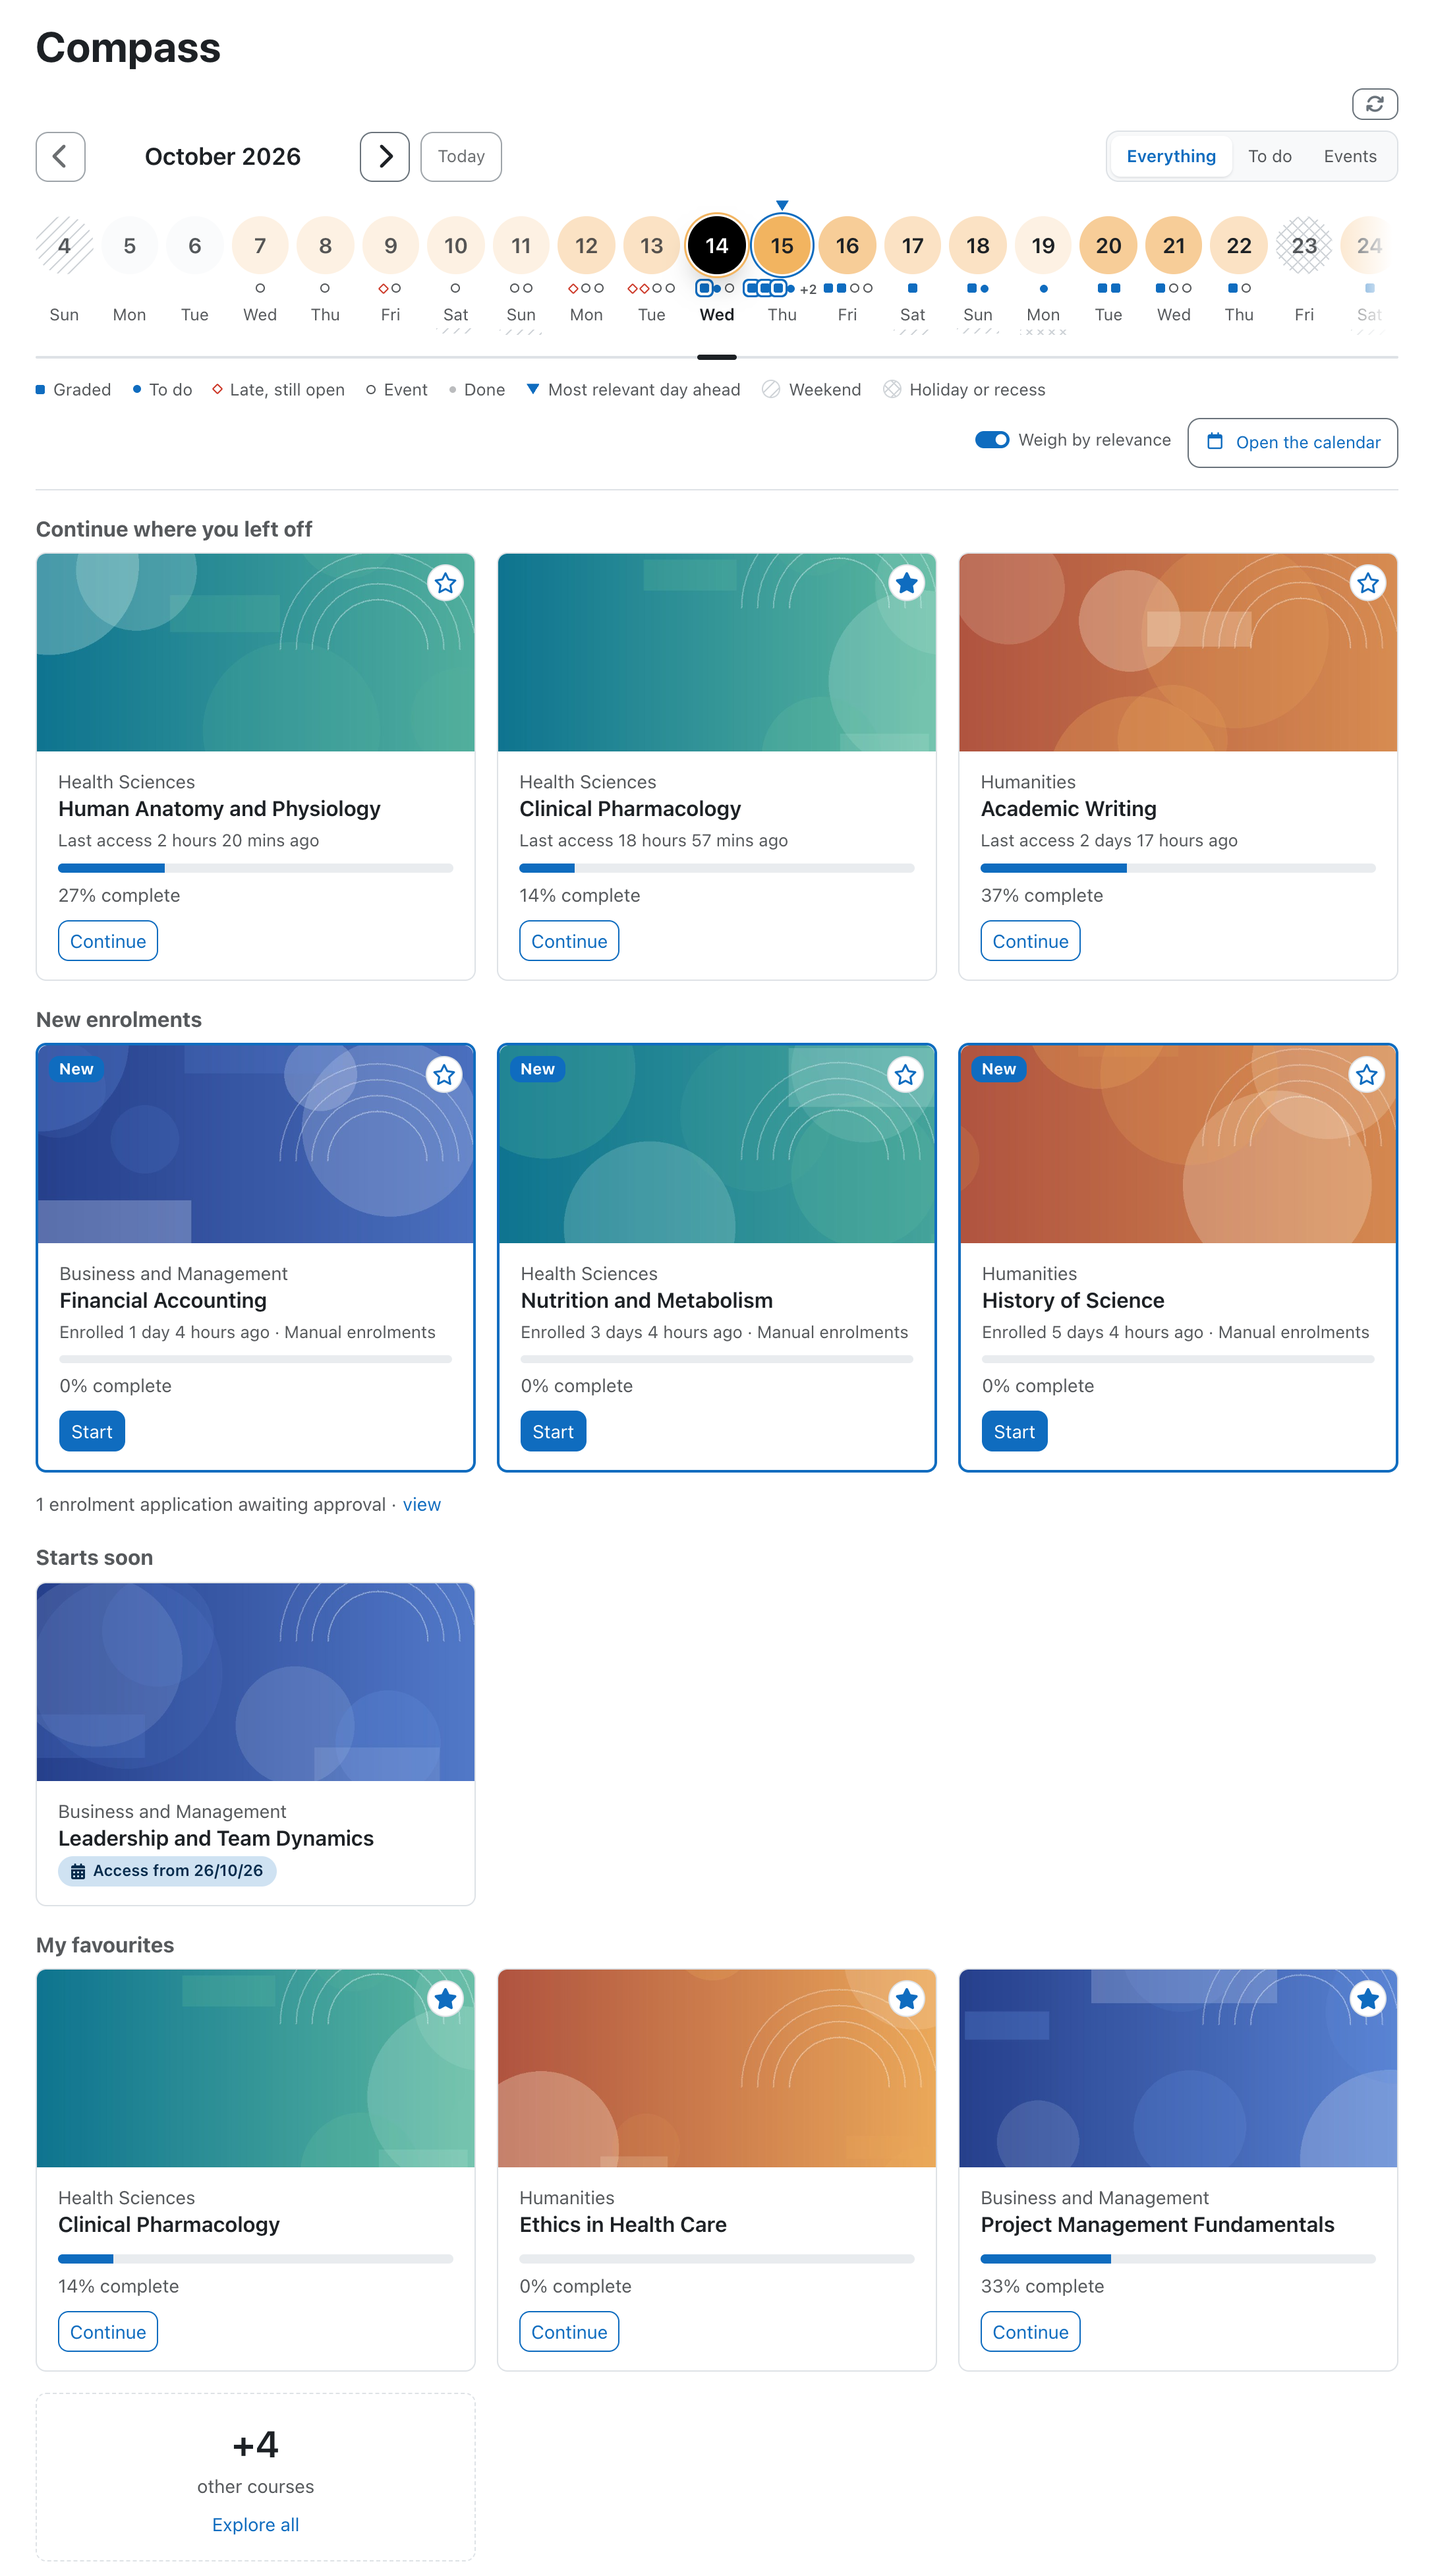
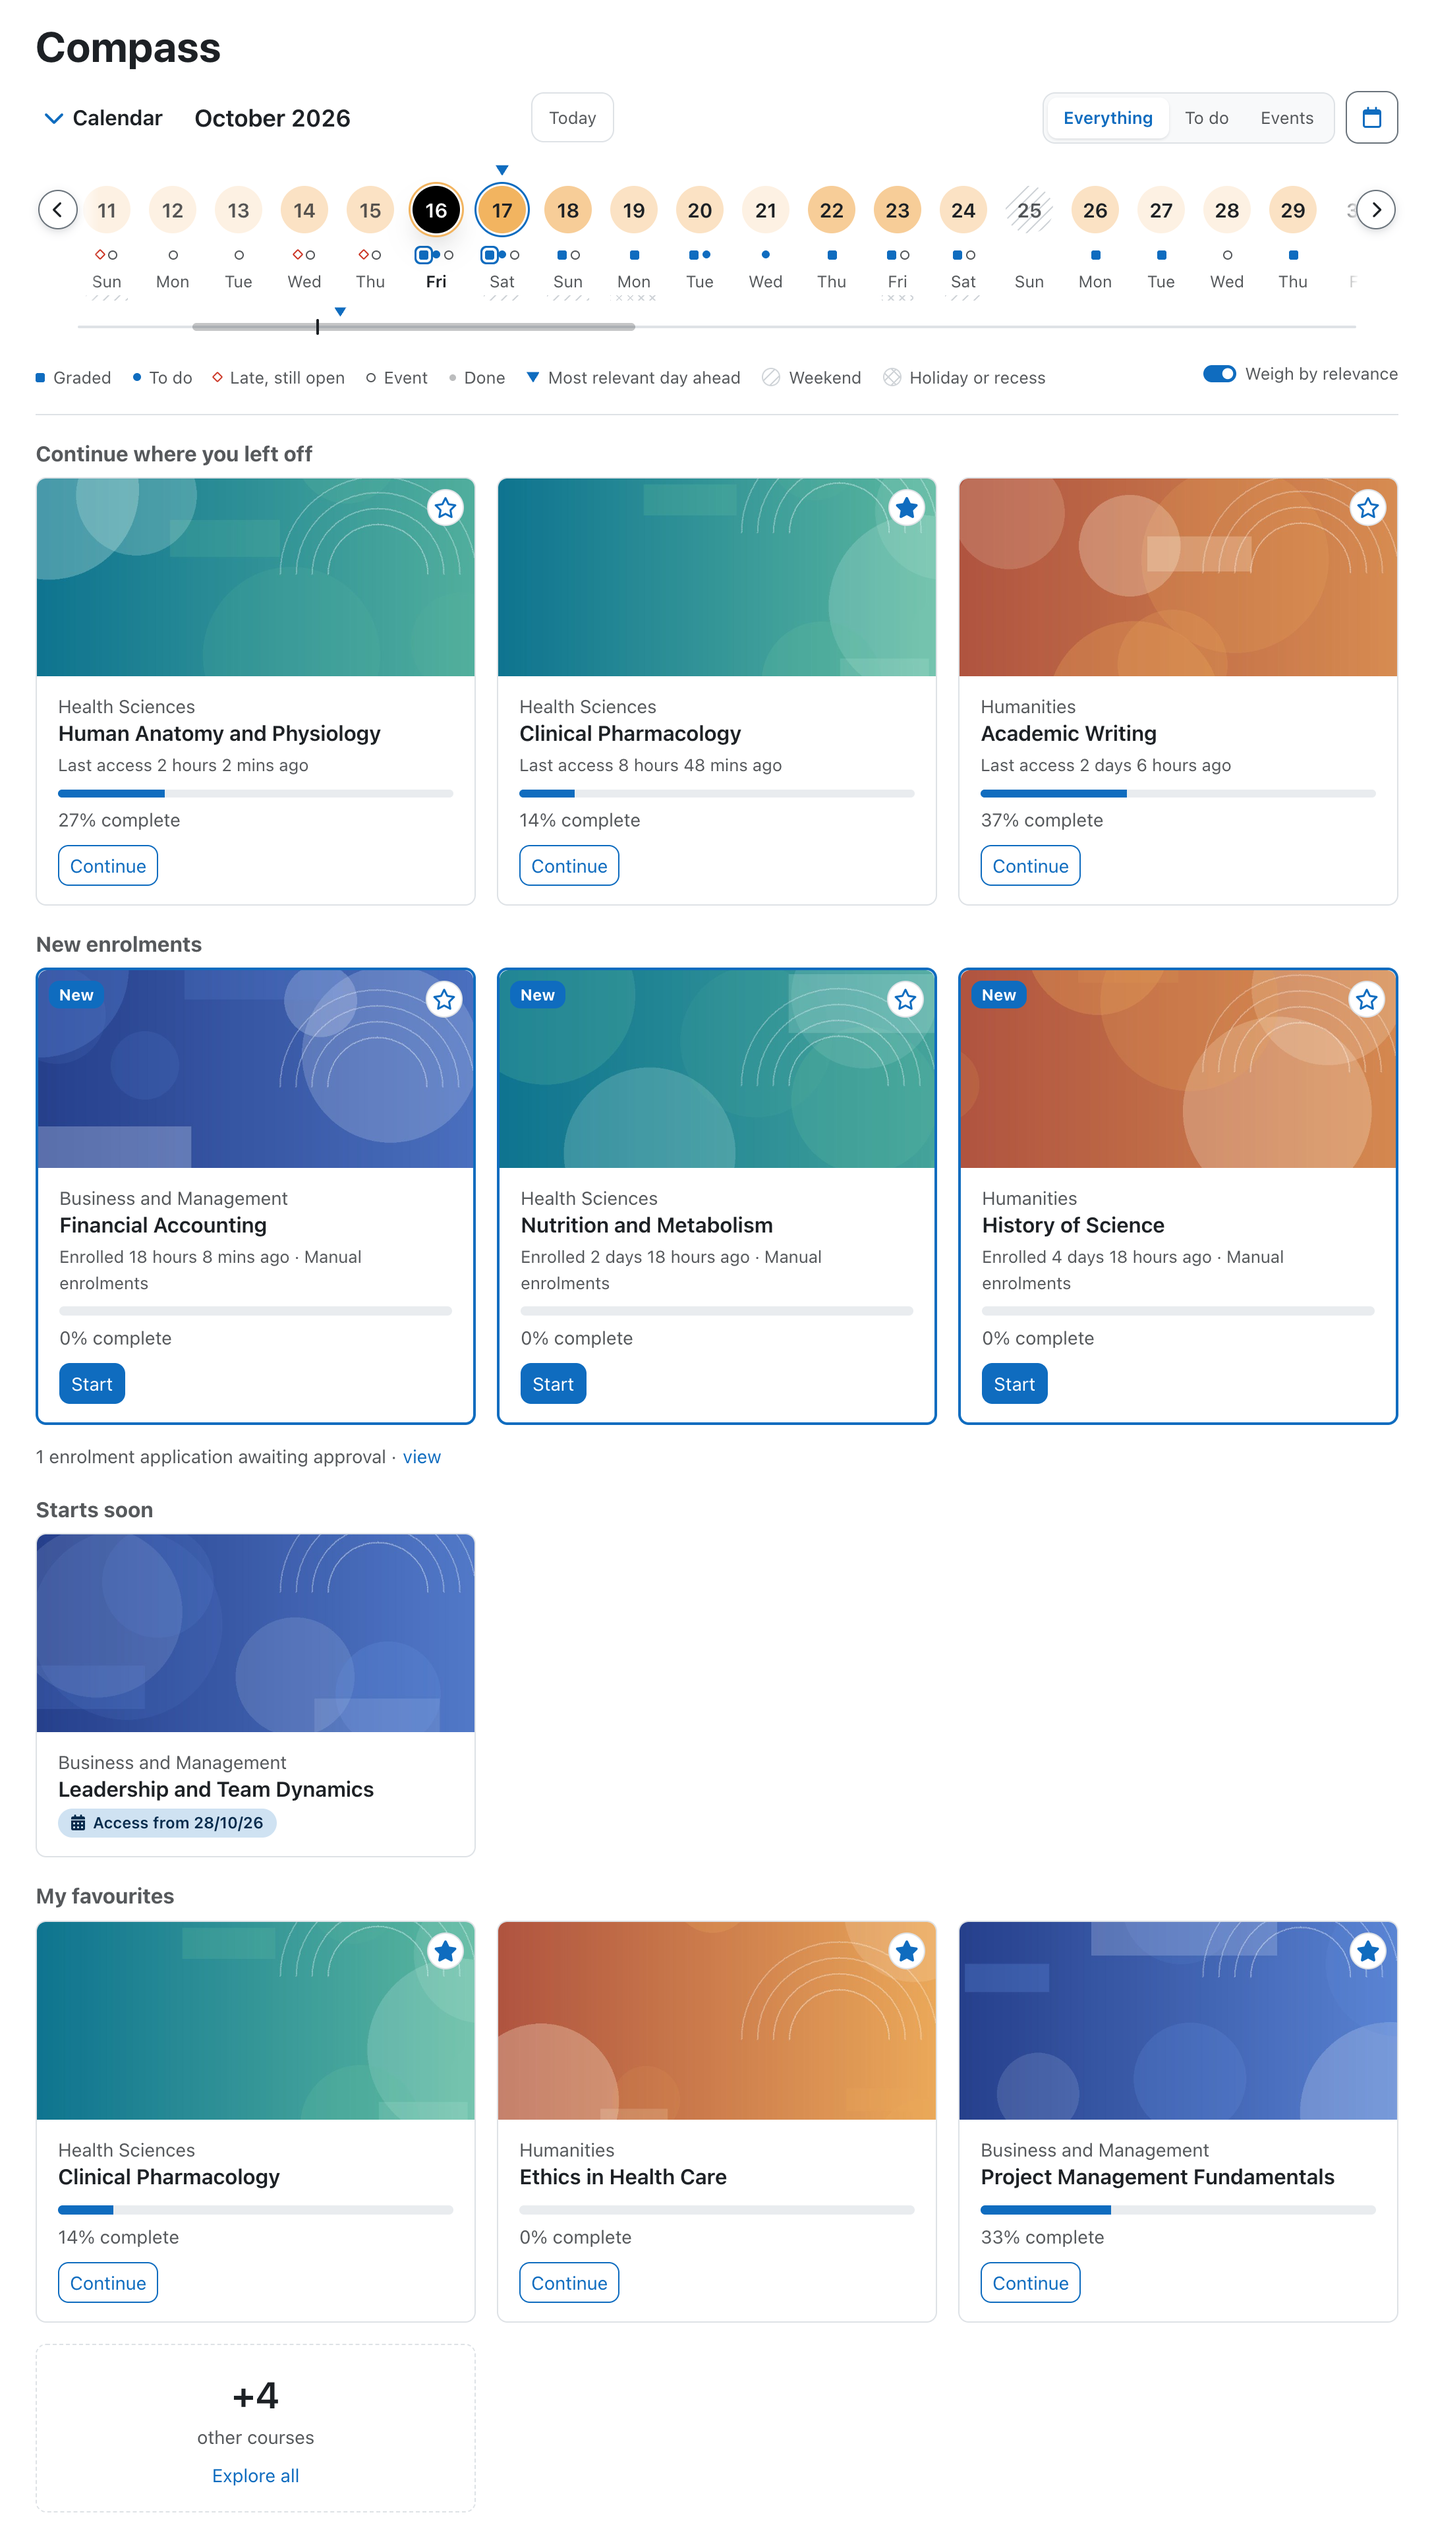
README screenshots retaken for the current calendar strip [skip ci]
Every block screenshot is retaken on the demo site, and three are added: the
closed line for a learner, the teaching line with its To grade cell and icon
switch, and the dim while pointing at a course. The scrolling row, the short
action verbs and the contrast change are now what the pictures show. The
README's alt texts and descriptions follow, and so do capture.mjs (it opens or
closes the strip by its heading and waits for data) and the tools README.

diff --git a/README.md b/README.md
@@ -14,9 +14,9 @@ most courses have no end date and no completion rule, that turns into one long "
 list, expensive to build and hard to scan. Compass sorts the same enrolments by **relevance**:
 what I was doing, what just arrived, what I marked as mine, and what is due.
 
-- **Calendar strip** (optional). A row of days, from ten days ago to the end of next month,
-  each coloured by what it holds and weighted by relevance. Pointing at a day opens its items
-  with the actions the Timeline block offers.
+- **Calendar strip** (optional). Closed, one line of counts by period; open, a scrolling row of
+  days, from ten days ago to the end of next month (it opens on the last five, three on a
+  phone), each coloured by what it holds and weighted by relevance. Pointing at a day opens its items with the actions the Timeline block offers.
 - **Tier 1, attention.** Full cards (image, progress, button) in four strips: *Continue where
   you left off*, *New enrolments*, *Starts soon* and *My favourites*. A strip that overflows
   says so in its heading ("+4 new").
@@ -36,7 +36,7 @@ a query budget enforced by an automated test.
 The calendar strip
 ------------------
 
-![The calendar strip above the first tier: days coloured by load, today marked, dots counting each day's items by kind](docs/screenshots/calendar-strip.png)
+![The open calendar strip: a scrolling row of days coloured by load with five past days, today marked, floating arrows over the row's ends, a map under it and one mark per kind of item below each day](docs/screenshots/calendar-strip.png)
 
 The strip is off by default (`calendar_enabled`). When on, it sits above the first tier on the
 Dashboard, on the Compass page, or on both (`calendar_where`), and loads after the first tier so
@@ -49,6 +49,8 @@ the cards always paint first.
   its days, and Today and Tomorrow also open that day's card. A closed strip asks only for these
   counts, never for the whole strip; closing an open strip asks nothing. A count made before the
   strip was opened that day has no *Late* period yet and says so.
+
+  ![The closed strip: one line of counts for Late, Today, Tomorrow, This week and Later](docs/screenshots/calendar-line.png)
 - **Scrolling.** The row holds the whole window and scrolls with a trackpad, touch or the
   keyboard (arrows, Page Up and Down, Home and End), asking the server nothing. It opens with five
   past days before today (three on a narrow block); two arrows over its ends move two weeks at a
@@ -61,29 +63,35 @@ the cards always paint first.
   value.
 - **A day card.** Hovering a day wholly in view, focusing it or clicking it opens a card listing
   the day's items, with the buttons core's Timeline offers, such as "Add submission". A click
-  pins the card as a dialog; Escape closes it. On a narrow block it opens as a bottom sheet.
+  pins the card as a dialog; Escape closes it. On a narrow block it opens as a bottom sheet. Each
+  item's button carries a short verb for what core's Timeline would do: Submit, Answer, Attempt,
+  Grade, View or Open.
 
-  ![A day card open over the course cards: the day's items with core's action buttons](docs/screenshots/calendar-day-card.png)
+  ![A day card open over the course cards: the day's items with their action buttons (Attempt, Submit, View)](docs/screenshots/calendar-day-card.png)
 
 - **Studying and Teaching.** A user who learns in some courses and teaches in others gets a
   switch between the two views; which courses are learning ones follows the site's graded roles
   (`gradebookroles`). The teaching view counts the submissions waiting to be graded, in the same
   group core's grading page shows that teacher first, beside the class's deadlines. An
   *Everything* / *To do* / *Events* filter narrows either view. Both choices are remembered per
-  user. Closed, the teaching line counts grading work only with `block_feedback_tracker` (below);
-  without it, it counts the class's deadlines and events, and grading shows once it is open.
+  user. Closed, the teaching line counts grading work only with `block_feedback_tracker` (below),
+  as a *To grade* cell before the periods; without it, it counts the class's deadlines and
+  events, and grading shows once it is open. The switch is two icons (Studying, Teaching) where
+  the header is narrow.
 
-  ![The Teaching view of the strip: days carrying grading work, and a day card listing the submissions waiting to be graded](docs/screenshots/calendar-teaching.png)
+  ![The Teaching view of the strip, open: days carrying grading work, and a day card with the submissions waiting to be graded and the Grade button](docs/screenshots/calendar-teaching.png)
+
+  ![The teaching line, closed: the To grade cell, a divider, then Overdue, Today, Tomorrow, Week and Later](docs/screenshots/calendar-line-teaching.png)
 
 - **Three styles** (`calendar_style`): dots, a ring per day (fewer days at once), or pulse bars.
 
-  ![The same days drawn in the ring and pulse styles, side by side](docs/screenshots/calendar-styles.png)
+  ![The same row drawn in the ring and pulse styles, side by side](docs/screenshots/calendar-styles.png)
 
   The pulse style draws each day's load as a bar, red where late work is still open:
 
-  ![The pulse style: a bar per day sized by its load, red bars on days with late work still open, weekends and a recess hatched](docs/screenshots/calendar-pulse.png)
+  ![The pulse style: a bar per day sized by its load, red bars on days with late work still open, hatched weekends under the day names](docs/screenshots/calendar-pulse.png)
 
-  ![The pulse style with a day card pinned: two graded quizzes due tomorrow, a submission to do and two events](docs/screenshots/calendar-pulse-card.png)
+  ![The pulse style with a day card pinned: two graded quizzes due tomorrow, a submission to do and events](docs/screenshots/calendar-pulse-card.png)
 
 - **Weekends and days off.** Empty weekend days are hatched. With
   [`block_feedback_tracker`](https://github.com/uaiblaine/moodle-block_feedback_tracker)
@@ -93,11 +101,14 @@ the cards always paint first.
   an activity that will close) is announced as "up to N" until the day is opened. Only
   activities the user can see are counted, and hidden and completed courses are left out.
 - **Linked to the cards.** Pointing at a first-tier card lights the days that hold its course;
-  opening a day outlines the cards of its courses.
+  opening a day outlines the cards of its courses. While a card is pointed at, the days that do
+  not hold its course dim their fills; their numbers stay legible.
+
+  ![Pointing at a course card: its days are ringed, the other days dim](docs/screenshots/calendar-dim.png)
 - **Readable everywhere.** Month, weekday and time names come from the language pack, and every
   mark keeps its contrast in dark mode.
 
-  ![The calendar strip and the course cards in dark mode](docs/screenshots/calendar-dark.png)
+  ![The open strip with a day card pinned, in dark mode](docs/screenshots/calendar-dark.png)
 
 
 All courses and the Compass page
@@ -125,7 +136,7 @@ theme's page without block regions. While it is on, "Compass" is offered under *
 administration > Appearance > Navigation > Start page for users* and in each user's home page
 preference. Off, the page redirects to the Dashboard. Guests are sent to the front page.
 
-![Compass on a phone: a short calendar strip above the course cards in a single column](docs/screenshots/mobile.png)
+![Compass on a phone: the strip with three past days and a peek of the next, and a day card as a bottom sheet](docs/screenshots/mobile.png)
 
 The cards count their columns from the block's own width (three, two or one), so the block works
 in the block drawer and on a phone as well as on a wide Dashboard.

diff --git a/docs/screenshots/tools/README.md b/docs/screenshots/tools/README.md
@@ -50,6 +50,15 @@ COMPASS_SESSIONS=/path/sessions.json node capture.mjs        # every shot but ri
 python3 finish.py
 ```
 
+Each shot puts the strip in the state it needs (open or closed) by pressing the heading's toggle,
+which writes the user's `block_compass_calendar` preference, and waits for that state's data: the
+open row's days, or the closed line's counts. Note each demo user's `open` value before a run and
+restore it afterwards. The shots are `dashboard`, `strip` (open, student), `card`, `teaching`
+(open, a day with submissions to grade pinned), `line` (closed, student), `lineteaching` (closed,
+teacher; written only when the *To grade* cell is there, which needs the feedback_tracker ledger to
+cover his courses), `dim` (a tier 1 card hovered, the other days dimmed), `dark`, `explore`, `page`,
+`mobile` and `settings`, plus `ring` and `pulse`.
+
 Node 22 or later (global `WebSocket`), Google Chrome at its macOS path or `CHROME_BIN`. The card
 opens on tomorrow, the richest day of the seeded data. The texts that depend on the clock ("Last
 access 2 hours ago", the month in the header) change with the day of the capture.
